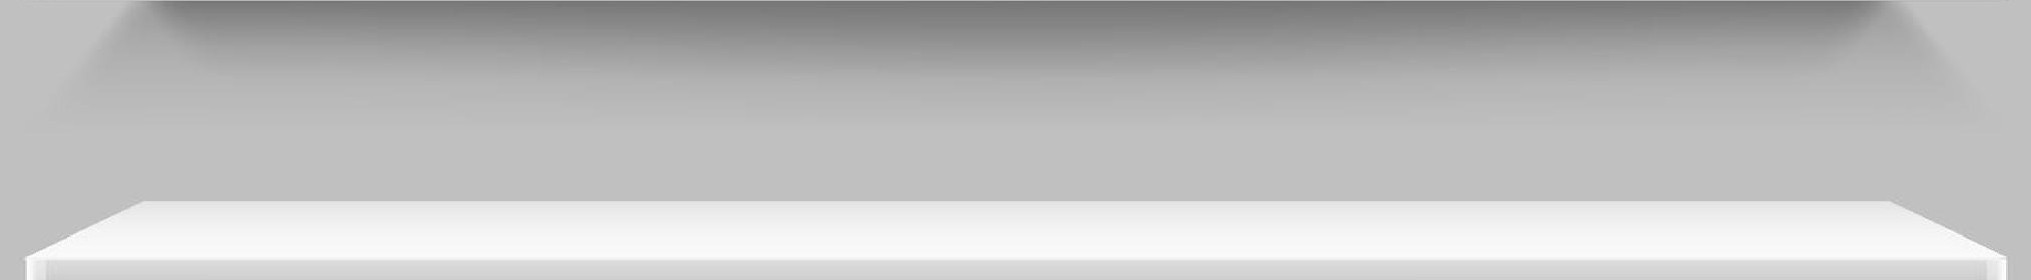
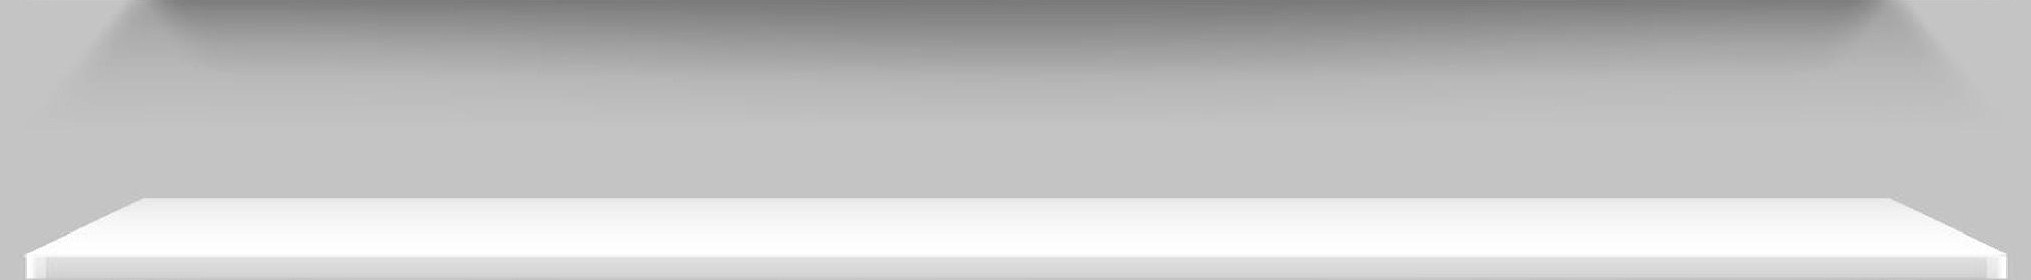
discover.vue setup
discover.vue now has a shelf background to neatly contain the books and the number of books per shlef and the space they take up is modified in correlation to the parent container width. The bookscard.vue component also now takes props.

diff --git a/book_nook/src/views/Discover.vue b/book_nook/src/views/Discover.vue
@@ -1,19 +1,29 @@
 <template>
-  <v-container class="d-flex flex-column ma-0 pa-0" min-height="100%" min-width="100%">
-    <v-container class="bg-img" width="100%" max-width="100%" max-height="250">
-      <div class="d-flex flex-row justify-between w-100 px-8">
-        <BookCard />
-        <BookCard />
-        <BookCard />
-      </div>
+  <div ref="pageContainer" class="page-wrapper">
+    <v-container 
+      v-for="(shelf, index) in shelves" 
+      :key="index" 
+      class="bg-shelf d-flex flex-row px-8" 
+      width="100%" 
+      max-width="100%" 
+      max-height="250"
+    >
+      <v-col v-for="book in shelf" :cols="shelfWidth" class="d-flex flex-row justify-between w-100 ma-0 px-2 py-0">
+        <BookCard
+          :key="book.id"
+          :title="book.title" 
+          :author="book.author" 
+          :description="book.description" 
+          :image="book.image" 
+        />
+      </v-col>
     </v-container>
 
-    <v-container class="bg-img" width="100%" height="250" max-width="100%" max-height="250">
-    </v-container>
-
-    <v-container class="bg-img" width="100%" height="250" max-width="100%" max-height="250">
-    </v-container>
-  </v-container>
+    <v-container
+      class="bg-shadow d-flex flex-grow-1 pa-0 ma-0" 
+      min-width="100%" 
+    ></v-container>
+  </div>
 </template>
 
 <script>
@@ -21,15 +31,94 @@ import BookCard from '@/components/BookCard.vue';
 
 export default {
   name: "Discover",
+
   components: {
     BookCard,
   },
+
+  data() {
+    return {
+      books: [
+        { id: 1, title: "The Great Gatsby", author: "F. Scott Fitzgerald", description: "A Jazz Age novel about Gatsby's love for Daisy.", image: require('@/assets/book-cover.jpg') },
+        { id: 2, title: "1984", author: "George Orwell", description: "A dystopian novel about a totalitarian society.", image: require('@/assets/book-cover.jpg') },
+        { id: 3, title: "To Kill a Mockingbird", author: "Harper Lee", description: "A novel about racial injustice in the Deep South.", image: require('@/assets/book-cover.jpg') },
+        { id: 4, title: "Pride and Prejudice", author: "Jane Austen", description: "A romantic novel about Elizabeth Bennet and Mr. Darcy.", image: require('@/assets/book-cover.jpg') },
+        { id: 5, title: "Moby-Dick", author: "Herman Melville", description: "A whaling adventure about Captain Ahab's obsession.", image: require('@/assets/book-cover.jpg') },
+        { id: 6, title: "The Catcher in the Rye", author: "J.D. Salinger", description: "A novel about Holden Caulfield's experiences.", image: require('@/assets/book-cover.jpg') },
+        { id: 7, title: "Brave New World", author: "Aldous Huxley", description: "A dystopian novel about a futuristic society.", image: require('@/assets/book-cover.jpg') },
+        { id: 8, title: "Jane Eyre", author: "Charlotte Brontë", description: "A coming-of-age novel about Jane Eyre's journey.", image: require('@/assets/book-cover.jpg') },
+        { id: 9, title: "Crime and Punishment", author: "Fyodor Dostoevsky", description: "A novel about guilt and redemption.", image: require('@/assets/book-cover.jpg') },
+      ],
+      booksPerShelf: 3,
+      shelfWidth: 4,
+      containerWidth: 0,
+    };
+  },
+
+  computed: {
+    shelves() {
+      return this.books.reduce((acc, book, index) => {
+        const shelfIndex = Math.floor(index / this.booksPerShelf);
+        if (!acc[shelfIndex]) acc[shelfIndex] = [];
+        acc[shelfIndex].push(book);
+        return acc;
+      }, []);
+    }
+  },
+
+  watch: {
+    containerWidth(newWidth) {
+      this.updateBooksPerShelf(newWidth);
+    }
+  },
+
+  mounted() {
+    this.containerWidth = this.$refs.pageContainer.clientWidth;
+    window.addEventListener("resize", this.onResize);
+  },
+
+  beforeUnmount() {
+    window.removeEventListener("resize", this.onResize);
+  },
+
+  methods: {
+    onResize() {
+      this.containerWidth = this.$refs.pageContainer.clientWidth;
+    },
+    updateBooksPerShelf(containerWidth) {
+      if (containerWidth <= 700) {
+        this.booksPerShelf = 1;
+        this.shelfWidth = 12;
+      } else if (containerWidth <= 1000) {
+        this.booksPerShelf = 2;
+        this.shelfWidth = 6;
+      } else {
+        this.booksPerShelf = 3;
+        this.shelfWidth = 4;
+      }
+    }
+  }
 };
 </script>
 
 <style scoped>
-.bg-img {
+.page-wrapper {
+  padding: 0;
+  margin: 0;
+  display: flex;
+  flex-direction: column;
+  min-width: 100%;
+  min-height: 100%;
+}
+
+.bg-shelf {
   background-image: url('@/assets/bg_shelf.jpg');
+  background-size: 100% 100%;
+  background-position: center;
+}
+
+.bg-shadow {
+  background-image: url('@/assets/bg_shelf_shadow.jpg');
   background-size: 100% 100%;
   background-position: center;
 }

diff --git a/book_nook/src/components/BookCard.vue b/book_nook/src/components/BookCard.vue
@@ -1,21 +1,21 @@
 <template>
-  <v-sheet max-width="600" height="200" class="d-flex flex-row ma-2 pb-4" color="transparent">
+  <v-sheet max-width="600" min-width="100%" height="200" class="d-flex flex-row ma-2 pb-4" color="transparent">
     <v-col cols="4" class="pa-0 d-flex justify-center align-center">
       <img 
-        :src="require('@/assets/book-cover.jpg')" 
+        :src="image" 
         class="book-cover"
         alt="Book Cover"
       />
     </v-col>
 
     <v-col cols="8" class="d-flex flex-column pa-0 pl-2">
-      <h3 class="mb-2">{{ book.title }}</h3>
-      <h5 class="text-medium-emphasis">{{ book.author }}</h5>
+      <u><h4>{{ title }}</h4></u>
+      <h5 class="text-medium-emphasis">{{ author }}</h5>
 
       <v-divider class="mt-2"></v-divider>
 
       <p class="book-desc fade-out">
-        {{ book.description }}
+        {{ description }}
       </p>
     </v-col>
   </v-sheet>
@@ -24,17 +24,24 @@
 <script>
 export default {
   name: "BookCard",
-  data() {
-    return {
-      book: {
-        title: "The Great Gatsby",
-        author: "J.K. Rowling",
-        description:
-          "A novel by F. Scott Fitzgerald, set in the Jazz Age on Long Island, near New York City, in the summer of 1922. It tells the story of the enigmatic millionaire Jay Gatsby as he pursues his unrequited love, Daisy Buchanan. It tells the story of the enigmatic millionaire Jay Gatsby as he pursues his unrequited love, Daisy Buchanan.",
-        image: "@/assets/book-cover.jpg",
-      },
-    };
-  },
+  props: {
+    title: {
+      type: String,
+      required: true
+    },
+    author: {
+      type: String,
+      required: true
+    },
+    description: {
+      type: String,
+      required: true
+    },
+    image: {
+      type: String,
+      required: true
+    }
+  }
 };
 </script>
 
